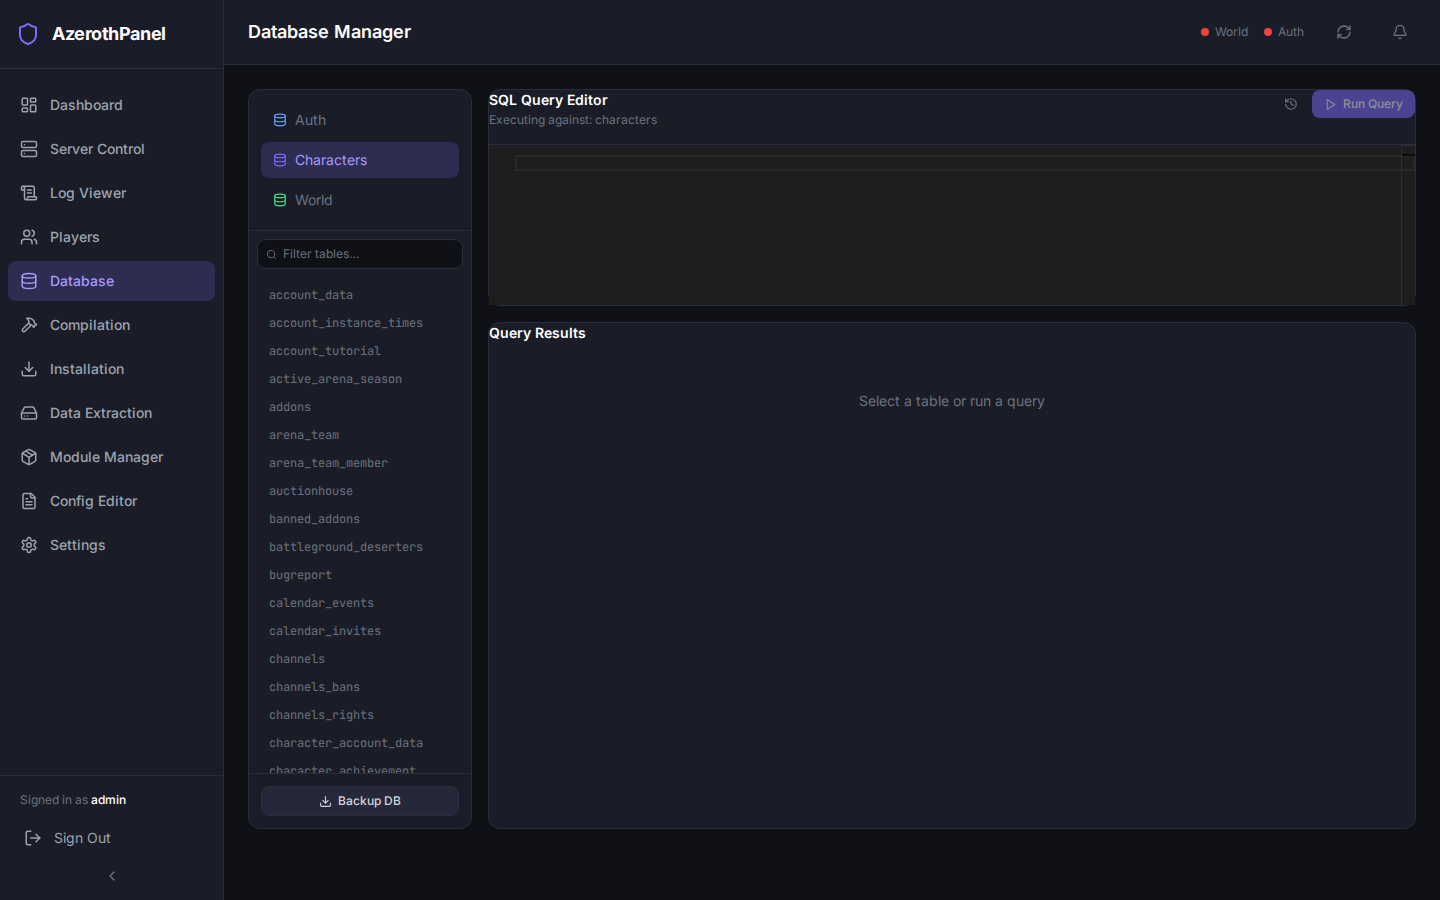
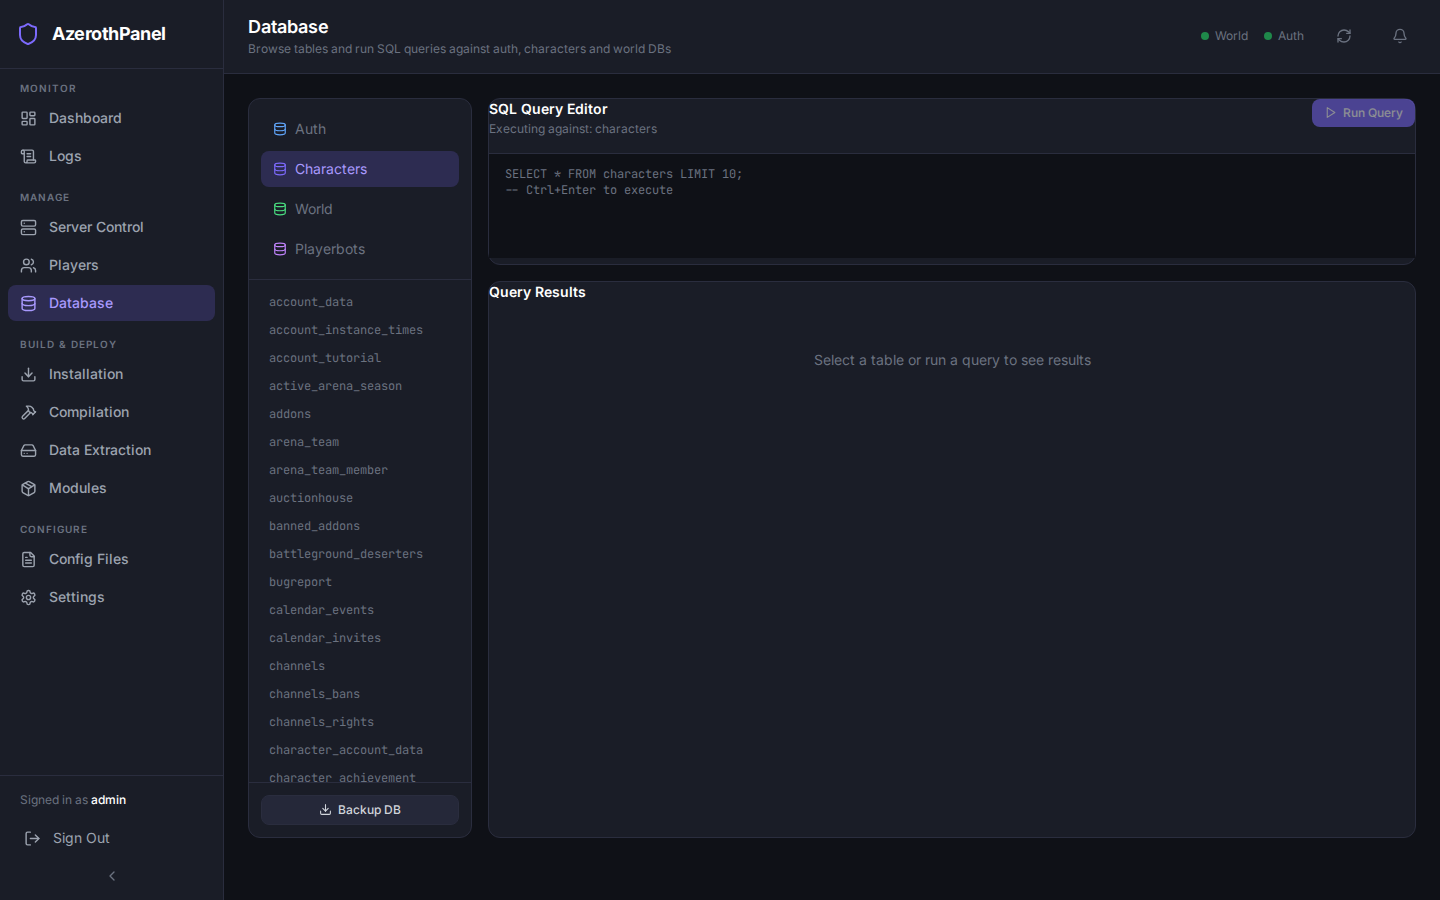
docs: update README, api.md, configuration.md and refresh all screenshots for multi-instance and latest features

diff --git a/README.md b/README.md
@@ -10,15 +10,17 @@ AzerothPanel wraps everything a server administrator needs — start/stop server
 
 | Category | Capabilities |
 |---|---|
-| **Server Control** | Start, stop & restart worldserver / authserver; SOAP command execution; in-game server announcements |
+| **Server Control** | Start, stop & restart worldserver / authserver; **multi-instance worldserver management** with independent per-process start/stop/restart/console; SOAP GM command execution; in-game server announcements |
+| **Multi-Instance Provisioning** | 2-step wizard creates additional worldserver instances from the UI; auto-generates a patched `worldserver.conf` with custom ports, realm name and realm ID; per-instance config tab for live editing |
 | **Player Management** | List online players, browse accounts & characters, ban/unban accounts, kick players, bulk announcements, character stat modification |
 | **Log Viewer** | Real-time log streaming (WebSocket), paginated log history, log download, multiple log sources |
-| **Database Manager** | Browse world/auth/characters databases, execute SQL queries (read-only safety checks), table browser, database backup |
-| **Compiler** | Trigger AzerothCore CMake builds with streaming SSE progress output, view build status |
+| **Database Manager** | Browse world/auth/characters/playerbots databases, execute SQL queries (read-only safety checks), table browser, database backup; **playerbots tab auto-detected** when `mod-playerbots` is installed |
+| **Compiler** | Trigger AzerothCore CMake builds with streaming SSE progress output; **Pull Latest Source** (`git pull`) from the same page |
 | **Installer** | Run the AzerothCore data installation steps with live progress, read/edit `worldserver.conf` and `authserver.conf` in-browser |
 | **Data Extraction** | Download pre-extracted client data from AzerothCore releases, or extract from local WoW 3.3.5a client (DBC, Maps, VMaps, MMaps) |
-| **Module Manager** | Browse, install, and remove AzerothCore modules from the community catalogue |
+| **Module Manager** | Browse, install, and remove AzerothCore modules from the community catalogue; **per-module and bulk `git pull` updates** |
 | **Config Editor** | In-browser syntax-highlighted editor for `worldserver.conf`, `authserver.conf`, and installed module configs |
+| **Panel Self-Update** | Check version and update the panel (git pull + Docker rebuild) from the Settings page or via `make update` — no shell access required |
 | **Settings** | Configure all AzerothCore paths, MySQL credentials, SOAP endpoint, and connection test — entirely UI-driven; no `.env` edits required after initial setup |
 | **Authentication** | JWT bearer tokens, single admin user, configurable session length |
 
@@ -214,6 +216,10 @@ make docker-down       Stop and remove containers
 make docker-logs       Tail logs from all containers
 make docker-restart    Rebuild & restart all containers
 
+# Panel updates
+make version           Print current git tag, branch, commit, and upstream lag
+make update            git pull --rebase then rebuild & restart containers
+
 # Host Process Daemon — run on the HOST machine to keep AC servers alive
 make daemon-start      Launch daemon in background (until reboot)
 make daemon-stop       Stop the daemon
@@ -242,8 +248,9 @@ AzerothPanel/
 │       ├── main.py            # Application factory, CORS, lifespan
 │       ├── api/v1/
 │       │   ├── router.py      # Route aggregation
-│       │   └── endpoints/     # auth, server, players, logs, database,
-│       │                      # installation, compilation, settings
+│       │   └── endpoints/     # auth, server, instances, players, logs,
+│       │                      # database, installation, compilation,
+│       │                      # modules, configs, settings
 │       ├── api/websockets/
 │       │   └── logs.py        # Real-time log streaming
 │       ├── core/
@@ -257,8 +264,10 @@ AzerothPanel/
 │           ├── panel_settings.py         # Settings CRUD
 │           └── azerothcore/
 │               ├── server_manager.py     # Process control (daemon or direct)
+│               ├── instance_seeder.py    # Seeds default worldserver instance
 │               ├── compiler.py           # CMake build runner
 │               ├── installer.py          # Data installation steps
+│               ├── module_manager.py     # Module clone/remove/git-pull
 │               └── soap_client.py        # SOAP RPC client
 │
 └── frontend/                  # React + TypeScript
@@ -267,11 +276,11 @@ AzerothPanel/
     └── src/
         ├── pages/             # Dashboard, ServerControl, Players, Logs,
         │                      # DatabaseManager, Compilation, Installation,
-        │                      # Settings, Login
+        │                      # ModuleManager, ConfigEditor, Settings, Login
         ├── components/        # Layout (Header/Sidebar) + UI primitives
         ├── services/api.ts    # Axios instance + typed API helpers
         ├── store/index.ts     # Zustand global store
-        ├── hooks/             # useWebSocket, useServerStatus
+        ├── hooks/             # useWebSocket, useServerStatus, useInstances
         └── types/index.ts     # Shared TypeScript interfaces
 ```
 

diff --git a/docs/api.md b/docs/api.md
@@ -93,6 +93,56 @@ Response:
 
 ---
 
+### Worldserver Instances — `/api/v1/server/instances`
+
+Manage multiple independent worldserver processes from a single panel. Each instance has its own binary path, working directory, and `worldserver.conf`.
+
+![Server Control page with instances](screenshots/server_control.png)
+
+| Method | Path | Description |
+|---|---|---|
+| `GET` | `/server/instances` | List all instances with live process status |
+| `POST` | `/server/instances` | Create a new instance |
+| `GET` | `/server/instances/{id}` | Get one instance with live status |
+| `PUT` | `/server/instances/{id}` | Update instance metadata |
+| `DELETE` | `/server/instances/{id}` | Stop (if running) then delete the instance |
+| `POST` | `/server/instances/{id}/start` | Start the instance's worldserver process |
+| `POST` | `/server/instances/{id}/stop` | Stop the instance's worldserver process |
+| `POST` | `/server/instances/{id}/restart` | Restart the instance's worldserver process |
+| `POST` | `/server/instances/{id}/command` | Send a GM console command via the daemon stdin pipe |
+| `GET` | `/server/instances/{id}/config` | Read this instance's `worldserver.conf`; falls back to global `AC_WORLDSERVER_CONF` |
+| `PUT` | `/server/instances/{id}/config` | Write updated content to this instance's `worldserver.conf` |
+| `POST` | `/server/instances/{id}/generate-config` | Copy the global conf as a template, patch ports/realm/ID, write to `conf_output_path` |
+
+#### `POST /api/v1/server/instances` — Create instance
+
+```json
+{
+  "display_name": "PTR Realm",
+  "process_name": "worldserver-ptr",
+  "binary_path": "/opt/azerothcore/bin/worldserver",
+  "working_dir": "/opt/azerothcore/bin",
+  "notes": "Public test realm"
+}
+```
+
+#### `POST /api/v1/server/instances/{id}/generate-config` — Provision a conf file
+
+```json
+{
+  "conf_output_path": "/opt/azerothcore/etc/worldserver-ptr.conf",
+  "realm_name": "PTR",
+  "realm_id": 2,
+  "worldserver_port": 8086,
+  "instance_port": 8086,
+  "ra_port": 3444
+}
+```
+
+The endpoint copies the global `worldserver.conf` and patches the specified key=value pairs in-place. The instance's `conf_path` is updated in the database.
+
+---
+
 ### Player Management — `/api/v1/players`
 
 ![Player Management page](screenshots/players.png)
@@ -158,10 +208,13 @@ Query parameters:
 
 | Method | Path | Description |
 |---|---|---|
-| `GET` | `/tables/{database}` | List tables in a database (`auth`, `world`, `characters`) |
+| `GET` | `/available` | List queryable database targets (`auth`, `world`, `characters`; `playerbots` when `mod-playerbots` is installed) |
+| `GET` | `/tables/{database}` | List tables in a database (`auth`, `world`, `characters`, `playerbots`) |
 | `POST` | `/query` | Execute a SQL query (read-only safety check enforced) |
 | `GET` | `/table/{database}/{table_name}` | Browse a table with pagination |
 | `POST` | `/backup` | Initiate a database backup (mysqldump) |
+
+> **Playerbots database**: The `playerbots` target is only included in `/available` (and accepted by all other endpoints) when `{AC_PATH}/modules/mod-playerbots` exists on disk. Requests using `playerbots` when the module is absent return HTTP 404.
 
 #### `POST /api/v1/database/query`
 

diff --git a/docs/configuration.md b/docs/configuration.md
@@ -28,8 +28,8 @@ AzerothPanel has two configuration layers:
 | `AC_PATH` | `/opt/azerothcore` | Absolute path to the AzerothCore installation on the **host** machine. Bind-mounted into the backend container. |
 | `CLIENT_PATH` | `/root/clientdata` | Path to a WoW 3.3.5a client on the host. Used for local data extraction. |
 | `PANEL_PORT` | `80` | Host port the panel frontend is exposed on. |
-| `AC_DAEMON_DIR` | `/var/run/azerothpanel` | Host directory containing the daemon's Unix socket. Bind-mounted into the backend container. |
-| `AC_DAEMON_SOCKET` | `/var/run/azerothpanel/ac-panel.sock` | Full socket path for backend ↔ host daemon IPC. Must match `--socket` arg passed to `ac_host_daemon.py`. |
+| `AC_DAEMON_HOST` | `127.0.0.1` | Bind address the host daemon listens on. The backend container uses `network_mode: host`, so `127.0.0.1` reaches the host loopback directly — no bind-mount needed. |
+| `AC_DAEMON_PORT` | `7879` | TCP port the host daemon listens on. Must match the `--port` argument (or `AC_DAEMON_PORT` env var) used when starting the daemon. |
 
 ---
 
@@ -99,12 +99,15 @@ and exposes the **Playerbots** database tab in the Database Manager.
 ## Host Daemon (`ac_host_daemon.py`)
 
 The host daemon manages worldserver and authserver processes outside the Docker
-cgroup so they survive panel restarts. It accepts configuration via CLI flags
-or environment variables.
+cgroup so they survive panel restarts. Communication is over **TCP** on the host
+loopback; because the backend container uses `network_mode: host`, `127.0.0.1`
+inside the container is the same loopback — no Unix socket or bind-mount is
+required.
 
 | Flag / Env | Default | Description |
 |---|---|---|
-| `--socket` / `AC_DAEMON_SOCKET` | `/var/run/azerothpanel/ac-panel.sock` | Unix socket path the daemon listens on. |
+| `--host` / `AC_DAEMON_HOST` | `127.0.0.1` | Address the daemon binds to. |
+| `--port` / `AC_DAEMON_PORT` | `7879` | TCP port the daemon listens on. |
 | `--pid-dir` / `AC_DAEMON_PID_DIR` | `/var/run/azerothpanel` | Directory for the JSON state file (`ac-daemon-state.json`). |
 | `--debug` | off | Enable verbose debug logging to stdout / journald. |
 
